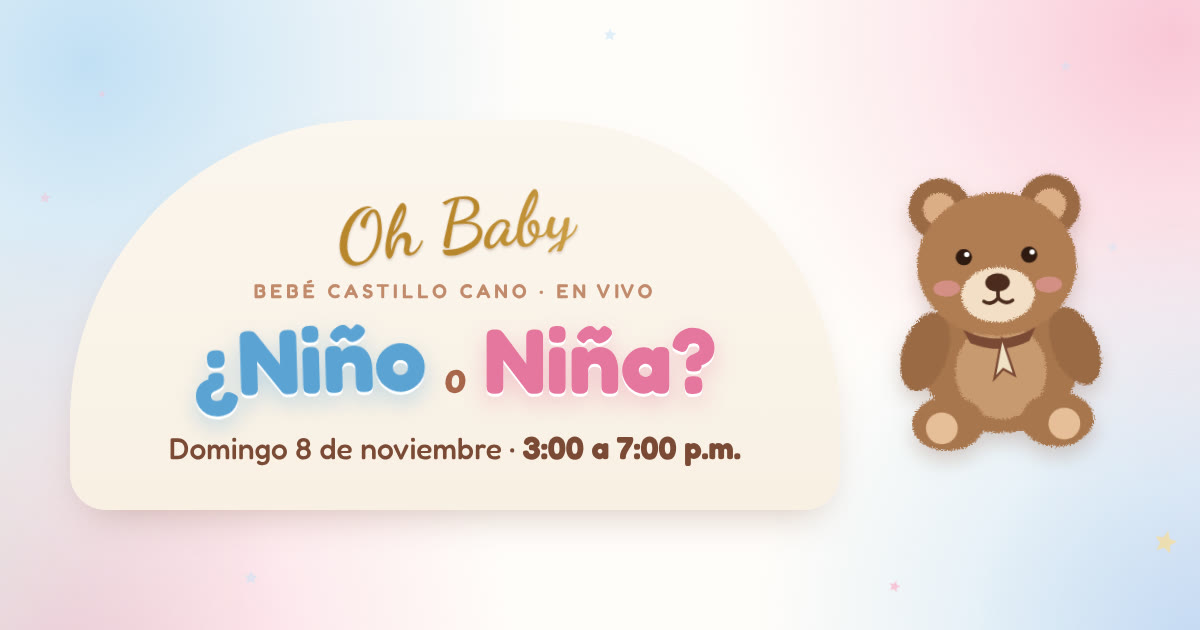
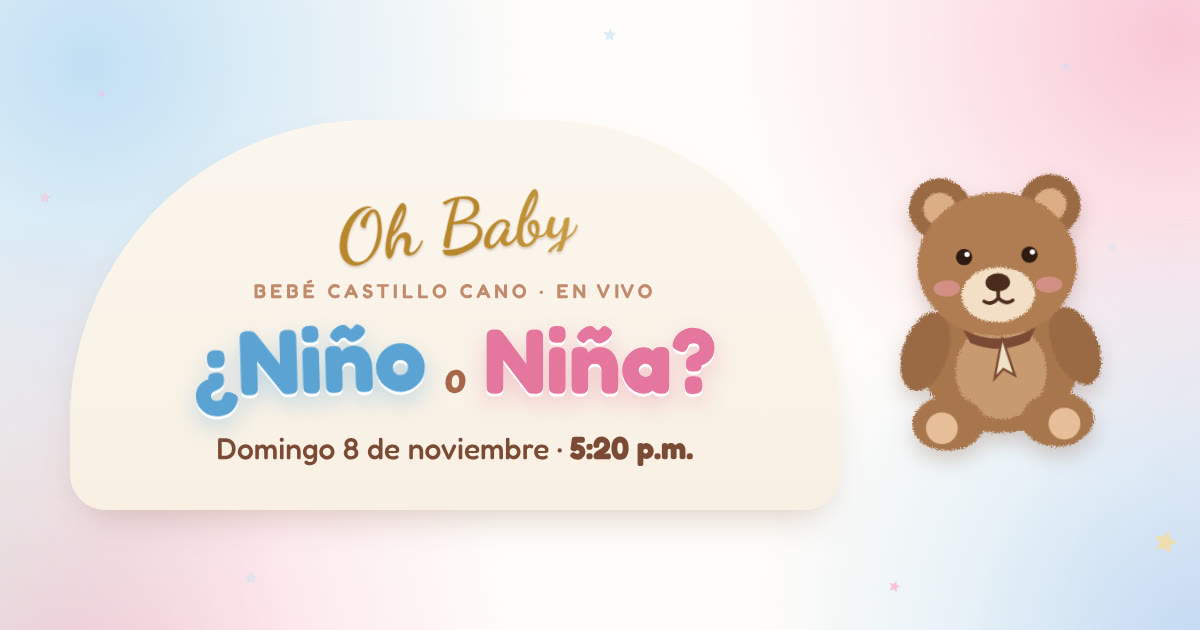
Mover la revelación a las 5:20 p.m. y quitar el acceso por teléfono
Claude-Session: https://claude.ai/code/session_011BWymwi3j4KRmJc7q1V6sn

Changed region(s): [[0.1233, 0.6937, 0.6167, 0.754]]

diff --git a/revelacion/index.html b/revelacion/index.html
@@ -4,13 +4,13 @@
   <meta charset="utf-8">
   <meta name="viewport" content="width=device-width, initial-scale=1, viewport-fit=cover">
   <title>¿Niño o Niña? · Revelación en vivo</title>
-  <meta name="description" content="Revelación Bebé Castillo Cano: acompáñanos en vivo por Google Meet a descubrir si es niño o niña. Domingo 8 de noviembre, 3:00 p.m.">
+  <meta name="description" content="Revelación Bebé Castillo Cano: acompáñanos en vivo por Google Meet a descubrir si es niño o niña. Domingo 8 de noviembre, 5:20 p.m.">
   <meta name="theme-color" content="#fbe3ec">
 
   <meta property="og:type" content="website">
   <meta property="og:locale" content="es_CO">
   <meta property="og:title" content="¿Niño o Niña? 🧸 Revelación Bebé Castillo Cano · En vivo">
-  <meta property="og:description" content="Domingo 8 de noviembre · 3:00 p.m. ¡Únete en vivo por Google Meet! 💙💗">
+  <meta property="og:description" content="Domingo 8 de noviembre · 5:20 p.m. ¡Únete en vivo por Google Meet! 💙💗">
   <meta property="og:url" content="https://mirevelacion8nov.vercel.app/">
   <meta property="og:image" content="https://mirevelacion8nov.vercel.app/assets/og.jpg">
   <meta property="og:image:width" content="1200">
@@ -127,7 +127,7 @@
             <span class="t-o">o</span>
             <span class="t-nina">Niña?</span>
           </h1>
-          <p class="hero-date">Domingo 8 de noviembre<br><strong>3:00 a 7:00 p.m.</strong> <span class="tz">(hora Colombia)</span></p>
+          <p class="hero-date">Domingo 8 de noviembre<br><strong>5:20 p.m.</strong> <span class="tz">(hora Colombia)</span></p>
           <p class="local-time" id="localTime" hidden></p>
 
           <div class="countdown" id="countdown" role="timer" aria-label="Cuenta regresiva">
@@ -170,12 +170,10 @@
             <div class="ph-glow" aria-hidden="true"></div>
             <svg class="ph-bear" aria-hidden="true"><use href="#bear"/></svg>
             <p class="ph-title" id="phTitle">La transmisión aparecerá aquí</p>
-            <p class="ph-sub" id="phSub">Domingo 8 de noviembre · 3:00 p.m.</p>
+            <p class="ph-sub" id="phSub">Domingo 8 de noviembre · 5:20 p.m.</p>
             <p class="ph-count" id="phCount"></p>
             <div class="ph-meet" id="phMeet" hidden>
               <a class="btn btn-meet" id="meetLink" href="#" target="_blank" rel="noopener"><svg viewBox="0 0 24 24" width="20" height="20" aria-hidden="true"><rect x="2.5" y="6" width="13" height="12" rx="3" fill="currentColor"/><path d="M16.5 10.2l5-3v9.6l-5-3z" fill="currentColor"/></svg> Unirme a la videollamada</a>
-              <p class="ph-dial">¿Sin internet? Marca <a id="meetTel" href="#"></a><br>PIN: <b id="meetPin"></b></p>
-              <a class="ph-more" id="meetMore" href="#" target="_blank" rel="noopener">Más números de teléfono</a>
             </div>
           </div>
         </div>
@@ -227,7 +225,7 @@
         <p class="big-date">Domingo 8<br>de noviembre</p>
 
         <p class="label">Hora:</p>
-        <p class="value spaced">3:00 a 7:00 p.m.</p>
+        <p class="value spaced">5:20 p.m.</p>
         <p class="value spaced small">(hora Colombia)</p>
 
         <p class="label">¿Dónde?</p>

diff --git a/revelacion/app.js b/revelacion/app.js
@@ -6,18 +6,15 @@
   "use strict";
 
   var DEFAULTS = {
-    inicio: "2026-11-08T15:00:00-05:00",
-    duracionHoras: 4,
+    inicio: "2026-11-08T17:20:00-05:00",
+    duracionHoras: 2.5,
     youtube: "",
     facebook: "",
     url: "",
     formato: "horizontal",
     revelado: "",
     whatsapp: "",
-    meet: "",
-    meetTelefono: "",
-    meetPin: "",
-    meetMasNumeros: ""
+    meet: ""
   };
   var POLL_MS = 30000;
   var VOTES_POLL_MS = 15000;
@@ -140,18 +137,6 @@
     $("#playerFrame").classList.toggle("meet-mode", !box.hidden);
     if (!url) return;
     $("#meetLink").href = url;
-    var tel = String(cfg.meetTelefono || ""), pin = String(cfg.meetPin || "");
-    var dial = $(".ph-dial");
-    dial.hidden = !tel;
-    if (tel) {
-      $("#meetTel").textContent = "(CO) " + tel;
-      // marca el número y luego el PIN automáticamente
-      $("#meetTel").href = "tel:" + tel.replace(/[^\d+]/g, "") + (pin ? ",," + pin.replace(/[^\d]/g, "") + "%23" : "");
-      $("#meetPin").textContent = pin;
-    }
-    var more = $("#meetMore");
-    more.hidden = !/^https:\/\//.test(cfg.meetMasNumeros || "");
-    if (!more.hidden) more.href = cfg.meetMasNumeros;
   }
   function hasLive() { return !!getEmbed() || !!meetUrl(); }
 
@@ -253,7 +238,7 @@
         $("#phSub").textContent = "Pronto compartiremos el video de este día.";
       } else {
         $("#phTitle").textContent = "Únete por Google Meet 🎥";
-        $("#phSub").textContent = "Domingo 8 de noviembre · 3:00 a 7:00 p.m.";
+        $("#phSub").textContent = "Domingo 8 de noviembre · 5:20 p.m.";
       }
     } else if (!hasStream) {
       if (phase === "casi") {
@@ -264,7 +249,7 @@
         $("#phSub").textContent = "Pronto compartiremos el video de este día.";
       } else {
         $("#phTitle").textContent = "La transmisión aparecerá aquí";
-        $("#phSub").textContent = "Domingo 8 de noviembre · 3:00 p.m.";
+        $("#phSub").textContent = "Domingo 8 de noviembre · 5:20 p.m.";
       }
     }
   }
@@ -832,7 +817,7 @@
 
   /* ---------------- Compartir, calendario, invitación ---------------- */
   function initShare() {
-    var msg = "🧸💙💗 ¡Acompáñanos EN VIVO a descubrir si el Bebé Castillo Cano es niño o niña!\n📅 Domingo 8 de noviembre · 3:00 a 7:00 p.m. (hora Colombia)\n👉 " + PAGE_URL;
+    var msg = "🧸💙💗 ¡Acompáñanos EN VIVO a descubrir si el Bebé Castillo Cano es niño o niña!\n📅 Domingo 8 de noviembre · 5:20 p.m. (hora Colombia)\n👉 " + PAGE_URL;
     $("#waLink").href = "https://wa.me/?text=" + encodeURIComponent(msg);
 
     var copyBtn = $("#copyLink");
@@ -853,7 +838,7 @@
       var ns = $("#nativeShare");
       ns.hidden = false;
       ns.addEventListener("click", function () {
-        navigator.share({ title: "¿Niño o Niña? · Revelación en vivo", text: "¡Acompáñanos en vivo! Domingo 8 de noviembre · 3:00 p.m.", url: PAGE_URL }).catch(function () { /* cancelado */ });
+        navigator.share({ title: "¿Niño o Niña? · Revelación en vivo", text: "¡Acompáñanos en vivo! Domingo 8 de noviembre · 5:20 p.m.", url: PAGE_URL }).catch(function () { /* cancelado */ });
       });
     }
   }
